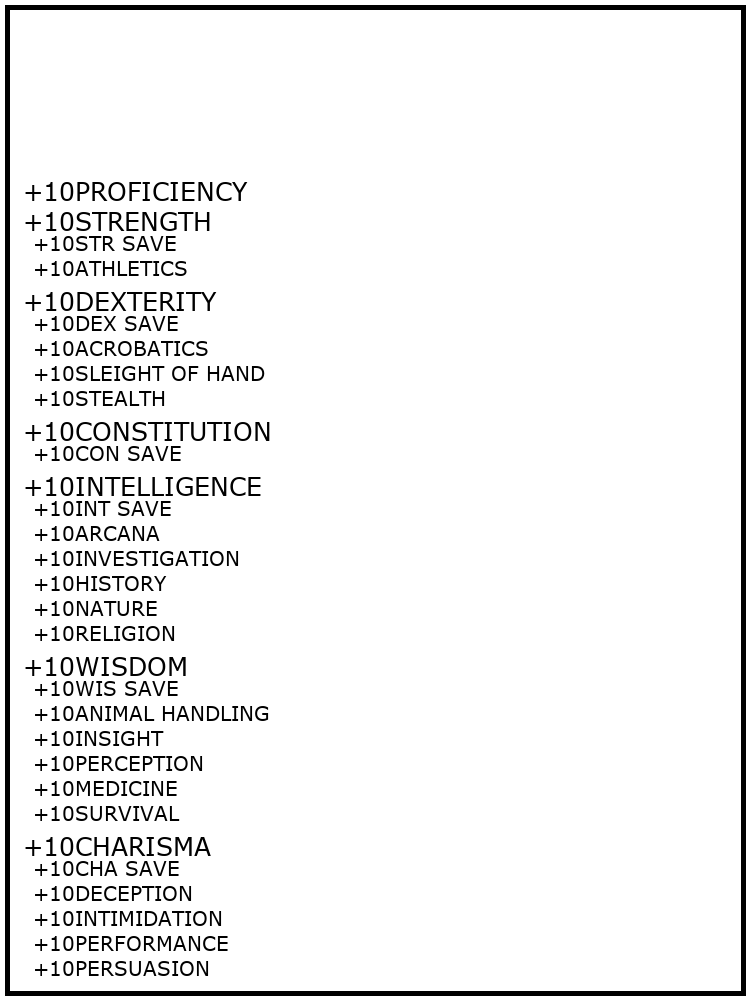
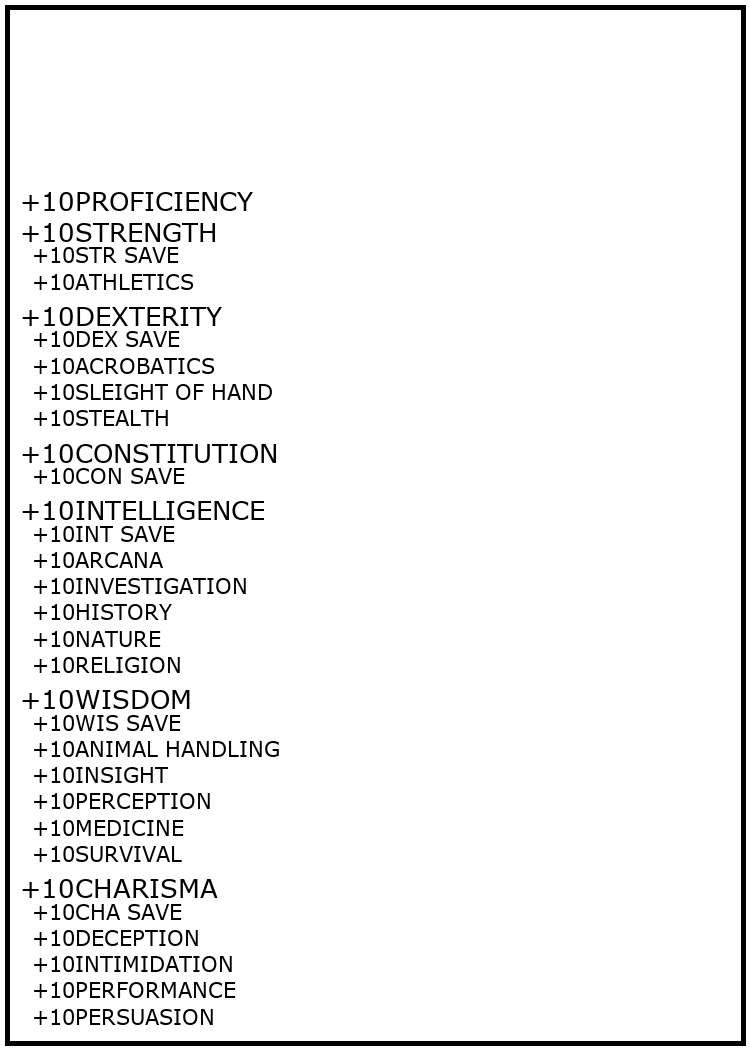
fixed up using St_image in the class

Changed region(s): [[0.0307, 0.155, 0.9813, 1.0]]

diff --git a/src/test_h_card_back_class.py b/src/test_h_card_back_class.py
@@ -15,6 +15,7 @@ import PIL.ImageFont as font
 
 from lib.cl_utility_path import convert_to_path
 from lib.st_attribute_ability import St_attribute_ability
+from lib.st_image import St_image
 
 
 class Cl_npc_character_sheet_generator:
@@ -32,8 +33,9 @@ class Cl_npc_character_sheet_generator:
 
     def __init__(
         self,
-        i_card_width: int,
-        i_card_height: int,
+        i_w_card_width_mm: float,
+        i_h_card_height_mm: float,
+        i_n_dots_per_inch : int,
         i_background_color: Optional[Tuple[int, int, int]] = None,
         i_border_color: Optional[Tuple[int, int, int]] = None
     ):
@@ -51,14 +53,26 @@ class Cl_npc_character_sheet_generator:
         i_border_color : tuple[int, int, int] or None, default=None
             RGB border colour.  If ``None`` a default black is used.
         """
-        self.n_card_width: int = i_card_width
-        self.n_card_height: int = i_card_height
-        self.tn_background_color: Tuple[int, int, int] = (
+
+        self.g_w_card_width_mm: float = i_w_card_width_mm
+        self.g_h_card_height_mm: float = i_h_card_height_mm
+        self.g_n_dots_per_inch: int = i_n_dots_per_inch
+
+        self.g_tn_background_color: Tuple[int, int, int] = (
             i_background_color or self.CN_DEFAULT_BACKGROUND_COLOR
         )
-        self.tn_border_color: Tuple[int, int, int] = (
+
+        self.g_tn_border_color: Tuple[int, int, int] = (
             i_border_color or self.CN_DEFAULT_BORDER_COLOR
         )
+
+        self.g_cl_image_card_back : St_image = St_image(
+            i_w_card_mm = self.g_w_card_width_mm,
+            i_h_card_mm = self.g_h_card_height_mm,
+            i_dot_per_inch = self.g_n_dots_per_inch
+        )
+
+        return
 
     def load_layout_from_json(
         self,
@@ -198,8 +212,9 @@ class Cl_npc_character_sheet_generator:
 
     def draw_layout_to_image(
         self,
-        i_layout: List[Dict[str, Any]],
-    ) -> image.Image:
+        i_ld_layout: List[Dict[str, Any]],
+        i_cl_image : St_image
+    ) -> bool:
         """
         Draw the layout described by *i_layout* onto a new PIL Image.
         
@@ -216,19 +231,21 @@ class Cl_npc_character_sheet_generator:
         """
         logging.info("Drawing layout to image")
         # Create base image and drawing context
-        cl_image = image.new("RGB", (self.n_card_width, self.n_card_height), self.tn_background_color)
-        cl_draw = draw.Draw(cl_image)
+        cl_draw = draw.Draw(i_cl_image.g_cl_image)
+
+        w_size_px = i_cl_image.g_w_card_px
+        h_size_px = i_cl_image.g_h_card_px
 
         # Draw a simple rectangle border
         cl_draw.rectangle(
             [
                 (self.CN_BORDER_WIDTH, self.CN_BORDER_WIDTH),
                 (
-                    self.n_card_width - self.CN_BORDER_WIDTH,
-                    self.n_card_height - self.CN_BORDER_WIDTH,
+                    w_size_px - self.CN_BORDER_WIDTH,
+                    h_size_px - self.CN_BORDER_WIDTH,
                 ),
             ],
-            outline=self.tn_border_color,
+            outline=self.g_tn_border_color,
             width=self.CN_BORDER_WIDTH,
         )
 
@@ -236,14 +253,14 @@ class Cl_npc_character_sheet_generator:
         cl_default_font = font.load_default()
 
         try:
-            ast_abilities = i_layout["attributes_and_abilities"]
+            ast_abilities = i_ld_layout["attributes_and_abilities"]
         except KeyError:
             logging.error("JSON layout missing 'attributes_and_abilities' key")
             print("ERR: field doesn't exist, json is wrong")
-            return cl_draw
+            return True #ERROR
 
-        cursor_w = 0
-        cursor_h = 0
+        w_cursor = 0
+        h_cursor = 0
 
         # Render each layout item; skip anything that isn't a dict
         for st_item in ast_abilities:
@@ -256,9 +273,9 @@ class Cl_npc_character_sheet_generator:
             h_font_ppt: int = st_item.get("h_font_ppt", 0)
             
             # Convert PPT values to pixels
-            w_pos_px = self.n_card_width * w_pos_ppt / 1000
-            h_pos_px = self.n_card_height * h_pos_ppt / 1000
-            h_font_px = self.n_card_height * h_font_ppt / 1000
+            w_pos_px = w_size_px * w_pos_ppt / 1000
+            h_pos_px = h_size_px * h_pos_ppt / 1000
+            h_font_px = h_size_px * h_font_ppt / 1000
 
             # Load a truetype font if possible, otherwise fall back to the default
             try:
@@ -271,25 +288,25 @@ class Cl_npc_character_sheet_generator:
                 logging.warning("Failed to load verdana.ttf, using default font")
                 print("ERR: failed to load font")
 
-            if (cursor_h <= 0):
-                cursor_w = w_pos_px
-                cursor_h = h_pos_px
+            if (h_cursor <= 0):
+                w_cursor = w_pos_px
+                h_cursor = h_pos_px
             else:
-                cursor_w += w_pos_px
-                cursor_h += h_pos_px
+                w_cursor += w_pos_px
+                h_cursor += h_pos_px
 
             # Add the header for the attribute or ability 
-            cl_draw.text((cursor_w, cursor_h), s_text, fill=(0, 0, 0), font=cl_item_font)
+            cl_draw.text((w_cursor, h_cursor), s_text, fill=(0, 0, 0), font=cl_item_font)
             # Fetch the numerical value of attribute or ability
-            cl_draw.text((cursor_w, cursor_h), "+10", fill=(0, 0, 0), font=cl_item_font, anchor="ra")
+            cl_draw.text((w_cursor, h_cursor), "+10", fill=(0, 0, 0), font=cl_item_font, anchor="ra")
 
         logging.info("Layout drawing completed successfully")
-        return cl_image
+        return False #OK
 
     def generate_card_back(
         self,
-        i_layout_file_path: List[str],
-        i_output_file_path: str,
+        i_ls_layout_file_path: List[str],
+        i_ls_output_file_path: List[str],
         i_background_color: Optional[Tuple[int, int, int]] = None,
         i_border_color: Optional[Tuple[int, int, int]] = None
     ) -> image.Image:
@@ -315,20 +332,23 @@ class Cl_npc_character_sheet_generator:
         logging.info("Starting card back generation")
         
         # Load the layout from JSON
-        st_layout = self.load_layout_from_json(convert_to_path(i_layout_file_path))
+        st_layout = self.load_layout_from_json(convert_to_path(i_ls_layout_file_path))
         logging.info("Layout loaded successfully")
 
+
         # Draw the layout to an image
-        cl_image = self.draw_layout_to_image(st_layout)
+        cl_image = self.draw_layout_to_image(
+            st_layout,
+            self.g_cl_image_card_back
+        )
         logging.info("Image drawn successfully")
 
         # Save the image
-        logging.info(f"Saving image to: {i_output_file_path}")
-        cl_image.save(i_output_file_path)
+        logging.info(f"Saving image to: {i_ls_output_file_path}")
+        self.g_cl_image_card_back.save_image(i_ls_output_file_path)
         logging.info("Image saved successfully")
         
         return cl_image
-
 
 # Example usage
 if __name__ == "__main__":
@@ -338,24 +358,24 @@ if __name__ == "__main__":
 
     logging.basicConfig(
         filename=s_log_path,
-        level=logging.INFO,
+        level=logging.DEBUG,
         format='[%(asctime)s] %(levelname)s %(module)s:%(lineno)d > %(message)s ',
         filemode='w'
     )
     logging.info("BEGIN")
 
-    # Create a generator instance for A4 size at 300 DPI (approx. 2480x3508 pixels)
     cl_generator = Cl_npc_character_sheet_generator(
-        i_card_width=750,
-        i_card_height=1000,
+        i_w_card_width_mm=63.5,
+        i_h_card_height_mm=88.9,
+        i_n_dots_per_inch = 300,
         i_background_color=(255, 255, 255),
         i_border_color=(0, 0, 0)
     )
 
     # Generate the card back
     cl_generated_image = cl_generator.generate_card_back(
-        i_layout_file_path=["src", "json", "test_e_layout_back.json"],
-        i_output_file_path="output/test_h_card_back.png"
+        i_ls_layout_file_path=["src", "json", "test_e_layout_back.json"],
+        i_ls_output_file_path=["output","test_h_card_back.png"]
     )
     
     logging.info("END")

diff --git a/src/lib/st_image.py b/src/lib/st_image.py
@@ -11,7 +11,9 @@ public API only exposes behaviour, not internal data.
 # IMPORTS
 # --------------------------------------------------------------------------- #
 
-import pathlib
+import logging
+
+from lib.cl_utility_path import convert_to_path
 import PIL.Image
 
 # --------------------------------------------------------------------------- #
@@ -44,16 +46,17 @@ class St_image:
         All parameters are kept private; they are prefixed with an underscore to
         signal that they should not be accessed directly from user code.
         """
-        self._w_card_mm: float = i_w_card_mm          #: Width of a standard card in millimetres.
-        self._h_card_mm: float = i_h_card_mm          #: Height of a standard card in millimetres.
-        self._dot_per_inch: int = i_dot_per_inch          #: DPI – dots (pixels) per inch.
-        self._mm_per_inch: float = 25.4        #: Millimetres per inch.
+        self.g_w_card_mm: float = i_w_card_mm          #: Width of a standard card in millimetres.
+        self.g_h_card_mm: float = i_h_card_mm          #: Height of a standard card in millimetres.
+        self.g_n_dot_per_inch: int = i_dot_per_inch          #: DPI – dots (pixels) per inch.
+        self.g_n_mm_per_inch: float = 25.4        #: Millimetres per inch.
 
-        # The image itself is created lazily; ``None`` indicates that no
-        # image exists yet.
-        self._image: PIL.Image.Image | None = None
+        self.g_w_card_px: int = int(0)
+        self.g_h_card_px: int = int(0)
 
-        self.create_image()
+        self.compute_px()
+
+        self.create_image( self.g_w_card_px, self.g_h_card_px )
 
         return
 
@@ -61,7 +64,9 @@ class St_image:
     # PUBLIC API
     # ----------------------------------------------------------------------- #
 
-    def compute_px(self) -> tuple[int, int]:
+    def compute_px(
+        self
+    ) -> bool:
         """
         Compute the pixel width and height that correspond to the physical
         card dimensions at the configured DPI.
@@ -69,15 +74,25 @@ class St_image:
         Returns:
             A two‑tuple ``(width_px, height_px)`` containing the size in pixels.
         """
-        n_width_px: int = int(
-            self._w_card_mm / self._mm_per_inch * self._dot_per_inch
-        )
-        n_height_px: int = int(
-            self._h_card_mm / self._mm_per_inch * self._dot_per_inch
-        )
-        return (n_width_px, n_height_px)
+        logging.debug(f"W mm: {self.g_w_card_mm} | H mm {self.g_h_card_mm}")
 
-    def create_image(self, i_color: str = "white") -> None:
+        self.g_w_card_px: int = int(
+            self.g_w_card_mm / self.g_n_mm_per_inch * self.g_n_dot_per_inch
+        )
+        self.g_h_card_px: int = int(
+            self.g_h_card_mm / self.g_n_mm_per_inch * self.g_n_dot_per_inch
+        )
+
+        logging.debug(f"W px: {self.g_w_card_px} | H px {self.g_h_card_px}")
+
+        return False #OK
+
+    def create_image(
+        self,
+        i_w_size_px : int,
+        i_h_size_px : int,
+        i_color: str = "white"
+    ) -> bool:
         """
         Create a new RGB image that matches the physical dimensions of the card.
 
@@ -89,10 +104,11 @@ class St_image:
                 Any colour recognised by Pillow can be used, e.g. "white",
                 "#FF00FF" or a tuple ``(R, G, B)``.
         """
-        n_width_px, n_height_px = self.compute_px()
-        self._image: PIL.Image.Image = PIL.Image.new(
-            mode="RGB", size=(n_width_px, n_height_px), color=i_color
+        self.g_cl_image: PIL.Image.Image = PIL.Image.new(
+            mode="RGB", size=(i_w_size_px, i_h_size_px), color=i_color
         )
+
+        return False #OK
 
     def destroy_image(self) -> None:
         """
@@ -102,14 +118,17 @@ class St_image:
         ``close`` protocol) and removes the reference so that Python's garbage
         collector can reclaim the memory.
         """
-        if self._image is not None:
+        if self.g_cl_image is not None:
             try:  # pragma: no cover
-                getattr(self._image, "close")()
+                getattr(self.g_cl_image, "close")()
             finally:
-                del self._image
-                self._image = None
+                del self.g_cl_image
+                self.g_cl_image = None
 
-    def save_image(self, i_path_parts: list[str]) -> None:
+    def save_image(
+        self,
+        i_path_parts: list[str]
+    ) -> bool:
         """
         Persist the current image to disk as a PNG file.
 
@@ -126,18 +145,16 @@ class St_image:
         Raises:
             ValueError: If no image has been created or loaded yet.
         """
-        if self._image is None:
-            raise ValueError(
-                "No image available to save – call create_image() first."
-            )
+        if self.g_cl_image is None:
+            return True #ERROR
 
-        # Build the destination path; ensure .png suffix.
-        p_path = pathlib.Path(*i_path_parts).with_suffix(".png")
+        st_path = convert_to_path(i_path_parts)
 
-        # Ensure that all parent directories exist.
-        p_path.parent.mkdir(parents=True, exist_ok=True)
+        logging.debug(f"input: {i_path_parts} path: {st_path}")
 
-        self._image.save(str(p_path), format="PNG")
+        self.g_cl_image.save(str(st_path), format="PNG")
+
+        return False #OK
 
     # ----------------------------------------------------------------------- #
     # REPRESENTATION HELPERS (optional)
@@ -148,9 +165,9 @@ class St_image:
         Return a concise representation that includes the size of the stored
         image if it exists.
         """
-        if self._image is not None:
+        if self.g_cl_image is not None:
             return (
-                f"{self.__class__.__name__}(image={self._image.size[0]}x{self._image.size[1]})"
+                f"{self.__class__.__name__}(image={self.g_cl_image.size[0]}x{self.g_cl_image.size[1]})"
             )
         else:
             return f"{self.__class__.__name__}()"
